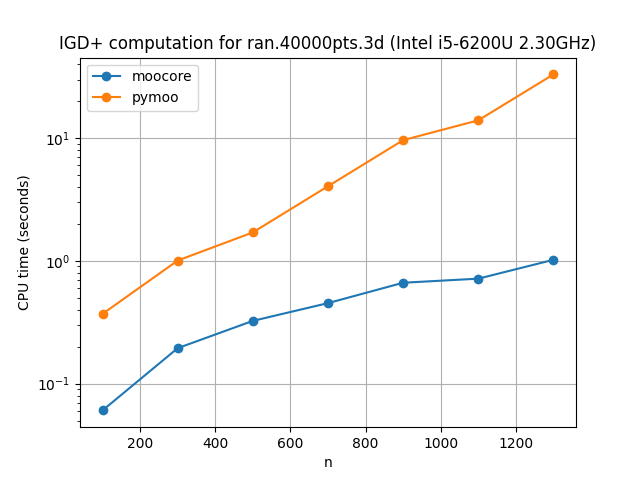
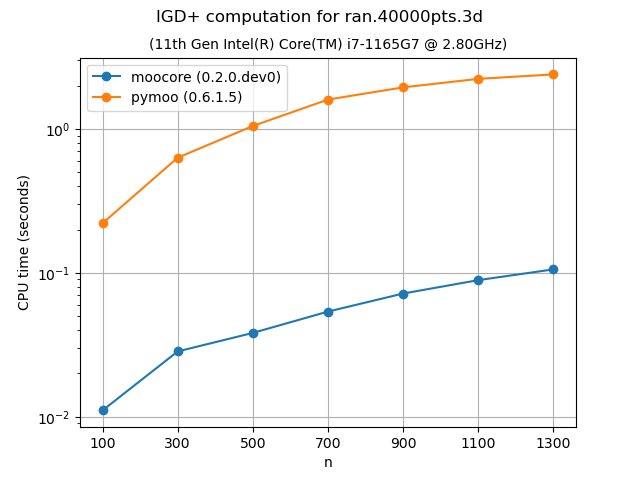
* c/igd.h: Reorganize to improve function inlining and autovectorization.  * c/igd.c: Update call so that minmax is the first argument.  * c/NEWS.md: Update.  * python/doc/source/_static/bench/igd_plus_bench-ran.40000pts.3d-time.png: Regenerate.  * python/doc/source/whatsnew/index.rst: Update.  * r/

diff --git a/c/igd.h b/c/igd.h
@@ -49,53 +49,73 @@
 
 #include <float.h>
 #include <math.h>
-#ifndef INFINITY
-#define INFINITY (HUGE_VAL)
-#endif
-#include <stdint.h>
 #include "common.h"
 #include "pow_int.h"
 #include "nondominated.h" // minmax_from_bool
 
+#ifndef INFINITY
+#define INFINITY (HUGE_VAL)
+#endif
+
+_attr_optimize_finite_math
 static inline double
-gd_common(dimension_t dim, const signed char * restrict minmax,
-          const double * restrict points_a, size_t size_a,
-          const double * restrict points_r, size_t size_r,
-          bool plus, bool psize, uint_fast8_t p)
+gd_common_helper_(const enum objs_agree_t agree,
+                  const signed char * restrict minmax, dimension_t dim,
+                  const double * restrict points_a, size_t size_a,
+                  const double * restrict points_r, size_t size_r,
+                  bool plus, bool psize, uint_fast8_t p)
 {
     if (size_a == 0) return INFINITY;
     ASSUME(size_a > 0);
     ASSUME(size_r > 0);
     ASSUME(dim >= 2);
+    ASSUME(agree == AGREE_MINIMISE || agree == AGREE_MAXIMISE || agree == AGREE_NONE);
+    assert((agree == AGREE_NONE) == (minmax != NULL));
 
+    double * diff = malloc(dim * sizeof(*diff));
     double gd = 0;
     for (size_t a = 0; a < size_a; a++) {
         double min_dist = INFINITY;
+        const double * restrict pa = points_a + a * dim;
         for (size_t r = 0; r < size_r; r++) {
-            double dist = 0.0;
+            const double * restrict pr = points_r + r * dim;
+            // TODO: Implement taxicab and infinity norms
             for (dimension_t d = 0; d < dim; d++) {
-                if (minmax[d] == 0) continue;
-                double a_d = points_a[a * dim + d];
-                double r_d = points_r[r * dim + d];
-                double diff = (!plus)
-                    ? (r_d - a_d)
-                    : MAX((minmax[d] < 0) ? (r_d - a_d) : (a_d - r_d), 0.0);
-                // TODO: Implement taxicab and infinity norms
-                dist += diff * diff;
+                double a_d = pa[d];
+                double r_d = pr[d];
+                diff[d] = (agree == AGREE_NONE)
+                    ? (plus
+                       ? (unlikely(minmax[d] == 0) ? 0 : (minmax[d] < 0) ? MAX(r_d - a_d, 0.) : MAX(a_d - r_d, 0.))
+                       : (unlikely(minmax[d] == 0) ? 0 : (a_d - r_d)))
+                    : (plus
+                       ? ((agree == AGREE_MINIMISE) ? MAX(r_d - a_d, 0.) : MAX(a_d - r_d, 0.))
+                       : (a_d - r_d));
             }
+            double dist = 0.0;
+            for (dimension_t d = 0; d < dim; d++)
+                dist += diff[d] * diff[d];
+
+            if (unlikely(dist == 0))
+                goto zero_skip;
             // We calculate the sqrt() of the Euclidean outside the loop, which
             // is faster and does not change the minimum.
-            if (dist < min_dist) min_dist = dist;
+            min_dist = MIN(min_dist, dist);
         }
+        ASSUME(min_dist > 0);
         // Here we calculate the actual Euclidean distance.
         if (p == 1)
-            min_dist = (double) sqrtl(min_dist);
+            min_dist = sqrt(min_dist);
         else if (p % 2 == 0)
             min_dist = pow_uint(min_dist, p/2);
         else
-            min_dist = pow_uint((double) sqrtl(min_dist), p);
+            min_dist = pow_uint(sqrt(min_dist), p);
         gd += min_dist;
+    zero_skip:
+        (void)0;
     }
+    free(diff);
+
+    ASSUME(gd >= 0);
 
     if (p == 1)
         return gd / (double) size_a;
@@ -105,23 +125,73 @@ gd_common(dimension_t dim, const signed char * restrict minmax,
         return (double) powl(gd, 1.0 / p) / (double) size_a;
 }
 
+_attr_optimize_finite_math
 static inline double
-GD_minmax(dimension_t dim, const signed char * restrict minmax,
+gd_common_agree_none(const signed char * restrict minmax, dimension_t dim,
+                    const double * restrict points_a, size_t size_a,
+                    const double * restrict points_r, size_t size_r,
+                    bool plus, bool psize, uint_fast8_t p)
+{
+    return gd_common_helper_(AGREE_NONE, minmax, dim, points_a, size_a, points_r, size_r, plus, psize, p);
+}
+
+_attr_optimize_finite_math
+static inline double
+gd_common_agree_min(dimension_t dim,
+                    const double * restrict points_a, size_t size_a,
+                    const double * restrict points_r, size_t size_r,
+                    bool plus, bool psize, uint_fast8_t p)
+{
+    return gd_common_helper_(AGREE_MINIMISE, /*minmax=*/NULL, dim, points_a, size_a, points_r, size_r, plus, psize, p);
+}
+
+_attr_optimize_finite_math
+static inline double
+gd_common_agree_max(dimension_t dim,
+                    const double * restrict points_a, size_t size_a,
+                    const double * restrict points_r, size_t size_r,
+                    bool plus, bool psize, uint_fast8_t p)
+{
+    return gd_common_helper_(AGREE_MAXIMISE, /*minmax=*/NULL, dim, points_a, size_a, points_r, size_r, plus, psize, p);
+}
+
+_attr_optimize_finite_math
+static inline double
+gd_common(const signed char * restrict minmax, dimension_t dim,
+          const double * restrict points_a, size_t size_a,
+          const double * restrict points_r, size_t size_r,
+          bool plus, bool psize, uint_fast8_t p)
+{
+    // This forces the compiler to generate three specialized versions of the function.
+    switch (check_all_minimize_maximize(minmax, dim)) {
+      case AGREE_MINIMISE:
+          return gd_common_agree_min(dim, points_a, size_a, points_r, size_r, plus, psize, p);
+      case AGREE_MAXIMISE:
+          return gd_common_agree_max(dim, points_a, size_a, points_r, size_r, plus, psize, p);
+      default:
+          return gd_common_agree_none(minmax, dim, points_a, size_a, points_r, size_r, plus, psize, p);
+    }
+}
+
+_attr_optimize_finite_math
+static inline double
+GD_minmax(const signed char * restrict minmax, dimension_t dim,
           const double * restrict points_a, size_t size_a,
           const double * restrict points_r, size_t size_r)
 {
-    return gd_common(dim, minmax,
+    return gd_common(minmax, dim,
                      points_a, size_a,
                      points_r, size_r,
                      /*plus=*/false, /*psize=*/false, /*p=*/1);
 }
 
+_attr_optimize_finite_math
 static inline double
-IGD_minmax(dimension_t dim, const signed char * restrict minmax,
+IGD_minmax(const signed char * restrict minmax, dimension_t dim,
            const double * restrict points_a, size_t size_a,
            const double * restrict points_r, size_t size_r)
 {
-    return gd_common(dim, minmax,
+    return gd_common(minmax, dim,
                      points_r, size_r,
                      points_a, size_a,
                      /*plus=*/false, /*psize=*/false, /*p=*/1);
@@ -133,39 +203,42 @@ IGD(const double * restrict data, size_t npoints, dimension_t nobj,
     const bool *  restrict maximise)
 {
     const signed char * minmax = minmax_from_bool(maximise, nobj);
-    double value = IGD_minmax(nobj, minmax, data, npoints, ref, ref_size);
+    double value = IGD_minmax(minmax, nobj, data, npoints, ref, ref_size);
     free ((void *)minmax);
     return value;
 }
 
+_attr_optimize_finite_math
 static inline double
-GD_p(dimension_t dim, const signed char * restrict minmax,
+GD_p(const signed char * restrict minmax, dimension_t dim,
      const double * restrict points_a, size_t size_a,
      const double * restrict points_r, size_t size_r, unsigned int p)
 {
-    return gd_common(dim, minmax,
+    return gd_common(minmax, dim,
                      points_a, size_a,
                      points_r, size_r,
                      /*plus=*/false, /*psize=*/true, (uint_fast8_t)p);
 }
 
+_attr_optimize_finite_math
 static inline double
-IGD_p(dimension_t dim, const signed char * restrict minmax,
+IGD_p(const signed char * restrict minmax, dimension_t dim,
       const double * restrict points_a, size_t size_a,
       const double * restrict points_r, size_t size_r, unsigned int p)
 {
-    return gd_common(dim, minmax,
+    return gd_common(minmax, dim,
                      points_r, size_r,
                      points_a, size_a,
                      /*plus=*/false, /*psize=*/true, (uint_fast8_t) p);
 }
 
+_attr_optimize_finite_math
 static inline double
-IGD_plus_minmax(dimension_t dim, const signed char * restrict minmax,
+IGD_plus_minmax(const signed char * restrict minmax, dimension_t dim,
                 const double * restrict points_a, size_t size_a,
                 const double * restrict points_r, size_t size_r)
 {
-    return gd_common(dim, minmax,
+    return gd_common(minmax, dim,
                      points_r, size_r,
                      points_a, size_a,
                      /*plus=*/true, /*psize=*/true, /*p=*/1);
@@ -178,23 +251,24 @@ IGD_plus(const double * restrict data, size_t npoints, dimension_t nobj,
 {
     ASSUME(nobj > 0);
     const signed char * minmax = minmax_from_bool(maximise, nobj);
-    double value = IGD_plus_minmax(nobj, minmax, data, npoints, ref, ref_size);
+    double value = IGD_plus_minmax(minmax, nobj, data, npoints, ref, ref_size);
     free ((void *)minmax);
     return value;
 }
 
+_attr_optimize_finite_math
 static inline double
-avg_Hausdorff_dist_minmax(dimension_t dim, const signed char * restrict minmax,
+avg_Hausdorff_dist_minmax(const signed char * restrict minmax, dimension_t dim,
                           const double * restrict points_a, size_t size_a,
                           const double * restrict points_r, size_t size_r,
                           unsigned int p)
 {
-    double gd_p = gd_common(dim, minmax,
+    double gd_p = gd_common(minmax, dim,
                             points_a, size_a,
                             points_r, size_r,
                             /*plus=*/false, /*psize=*/true, (uint_fast8_t)p);
 
-    double igd_p = gd_common(dim, minmax,
+    double igd_p = gd_common(minmax, dim,
                              points_r, size_r,
                              points_a, size_a,
                              /*plus=*/false, /*psize=*/true, (uint_fast8_t)p);
@@ -209,7 +283,7 @@ avg_Hausdorff_dist(const double * restrict data, size_t npoints, dimension_t nob
 {
     ASSUME(nobj > 0);
     const signed char * minmax = minmax_from_bool(maximise, nobj);
-    double value = avg_Hausdorff_dist_minmax(nobj, minmax, data, npoints, ref, ref_size, p);
+    double value = avg_Hausdorff_dist_minmax(minmax, nobj, data, npoints, ref, ref_size, p);
     free ((void *)minmax);
     return value;
 }

diff --git a/c/igd.c b/c/igd.c
@@ -149,7 +149,7 @@ do_file(const char * filename, double * restrict reference, size_t reference_siz
     for (int n = 0, cumsize = 0; n < nruns; cumsize = cumsizes[n], n++) {
         _attr_maybe_unused double time_elapsed = 0;
         size_t size_a = cumsizes[n] - cumsize;
-        const double * points_a = &data[nobj * cumsize];
+        const double * restrict points_a = &data[nobj * cumsize];
         //Timer_start ();
         sep = "\0";
 
@@ -157,7 +157,7 @@ do_file(const char * filename, double * restrict reference, size_t reference_siz
         do {                                                                   \
             if (IF) {                                                          \
                 fprintf (outfile, "%s" indicator_printf_format, sep,           \
-                         FUN(nobj, minmax, points_a, size_a, reference, reference_size, ## __VA_ARGS__)); \
+                         FUN(minmax, nobj, points_a, size_a, reference, reference_size, ## __VA_ARGS__)); \
                 sep = "\t";                                                    \
             }                                                                  \
         } while (0)

diff --git a/python/doc/source/whatsnew/index.rst b/python/doc/source/whatsnew/index.rst
@@ -7,11 +7,12 @@ What's new
 Version 0.2.0 (development)
 ---------------------------
 
+- Requires ``numpy>=1.24``.
 - Optuna is now included in the benchmarks.
 - New :ref:`bench-ndsort` benchmarks.
 - :func:`~moocore.pareto_rank` is faster in 3D.
 - HV3D+ is slightly faster with repeated coordinates (:issue:`41`).
-- Requires ``numpy>=1.24``.
+- :func:`moocore.igd`, :func:`moocore.igd_plus`, :func:`moocore.avg_hausdorff_dist` are faster.
 
 
 Version 0.1.10 (24/11/2025)

diff --git a/c/NEWS.md b/c/NEWS.md
@@ -9,6 +9,7 @@
    `find_weakly_dominated_point()`, `is_nondominated()`, `pareto_rank()`,
    `agree_normalise()`, `hv_approx_hua_wang()`, `hv_approx_normal()`
    to pass first the number of rows then the number of columns.
+ * Reorganize igd.h so that helper functions are inlined and more loops are vectorized.
 
 ## 0.17.0
 

diff --git a/r/NEWS.md b/r/NEWS.md
@@ -2,6 +2,7 @@
 
  * `pareto_rank()` is faster in 3D.
  * HV3D+ is slightly faster with repeated coordinates (#41).
+ * `igd()`, `igd_plus()`, `avg_hausdorff_dist()` are faster.
 
 # moocore 0.1.10
 
